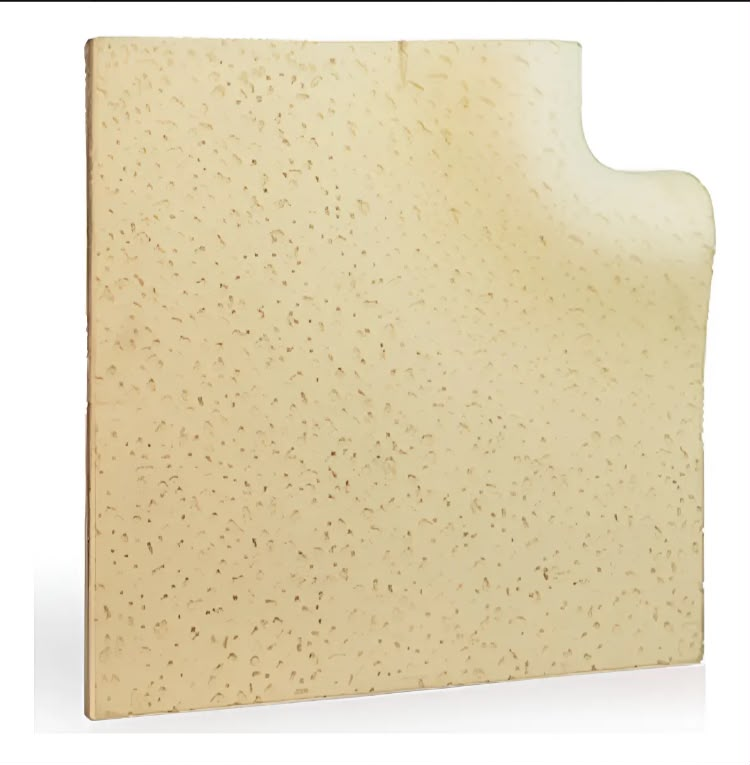
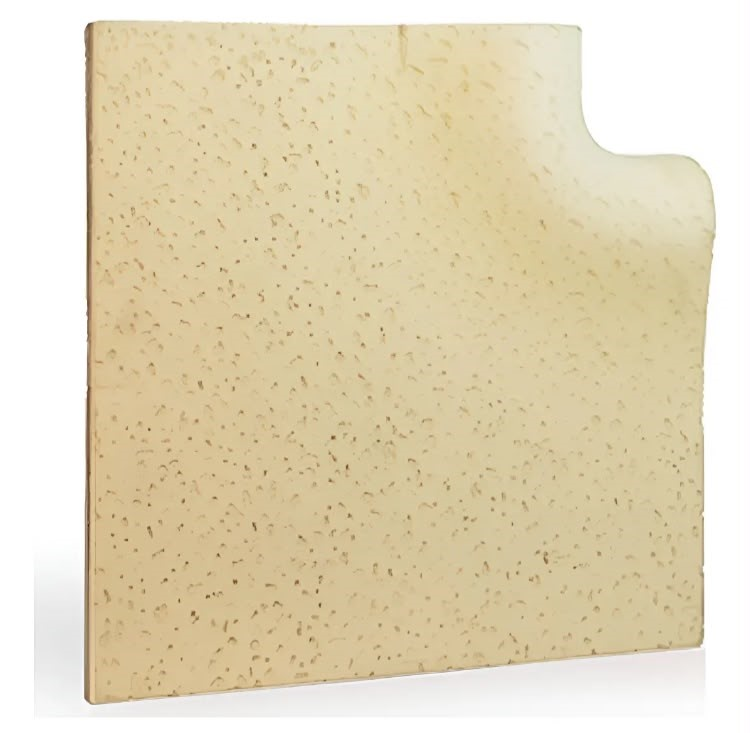
Volver a subir sol1 y esqballena editadas

diff --git a/index.html b/index.html
@@ -102,8 +102,8 @@
         <h3>Borde L</h3>
       </div>
       <div class="producto">
-        <div class="carrusel" data-fotos='["sol.jpeg","sol2.jpeg"]'>
-          <img src="sol.jpeg" alt="Solarium" style="object-fit: contain; background: #fff; border: none;">
+        <div class="carrusel" data-fotos='["sol1.jpeg","sol2.jpeg"]'>
+          <img src="sol1.jpeg" alt="Solarium" style="object-fit: contain; background: #fff; border: none;">
           <button class="prev" aria-label="Anterior">&#10094;</button>
           <button class="next" aria-label="Siguiente">&#10095;</button>
         </div>
